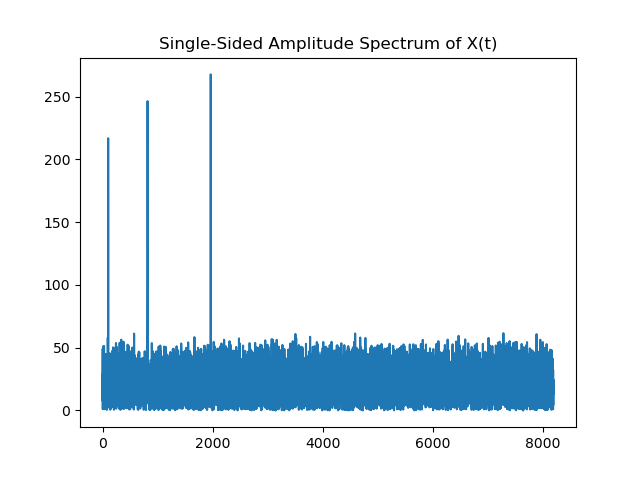
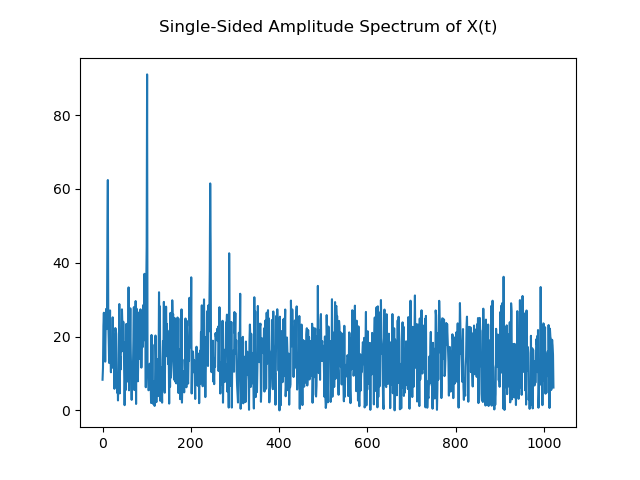
updated size and added more readable images

diff --git a/fft.c b/fft.c
@@ -124,7 +124,7 @@ for 4096 samples
 
 // * https://www.mathworks.com/help/matlab/ref/fft.html
 #define SAMPLE_FREQ 1000
-#define SIZE 2048*8
+#define SIZE 2048
 int main(void) {
 	complex io[SIZE]; 
 
